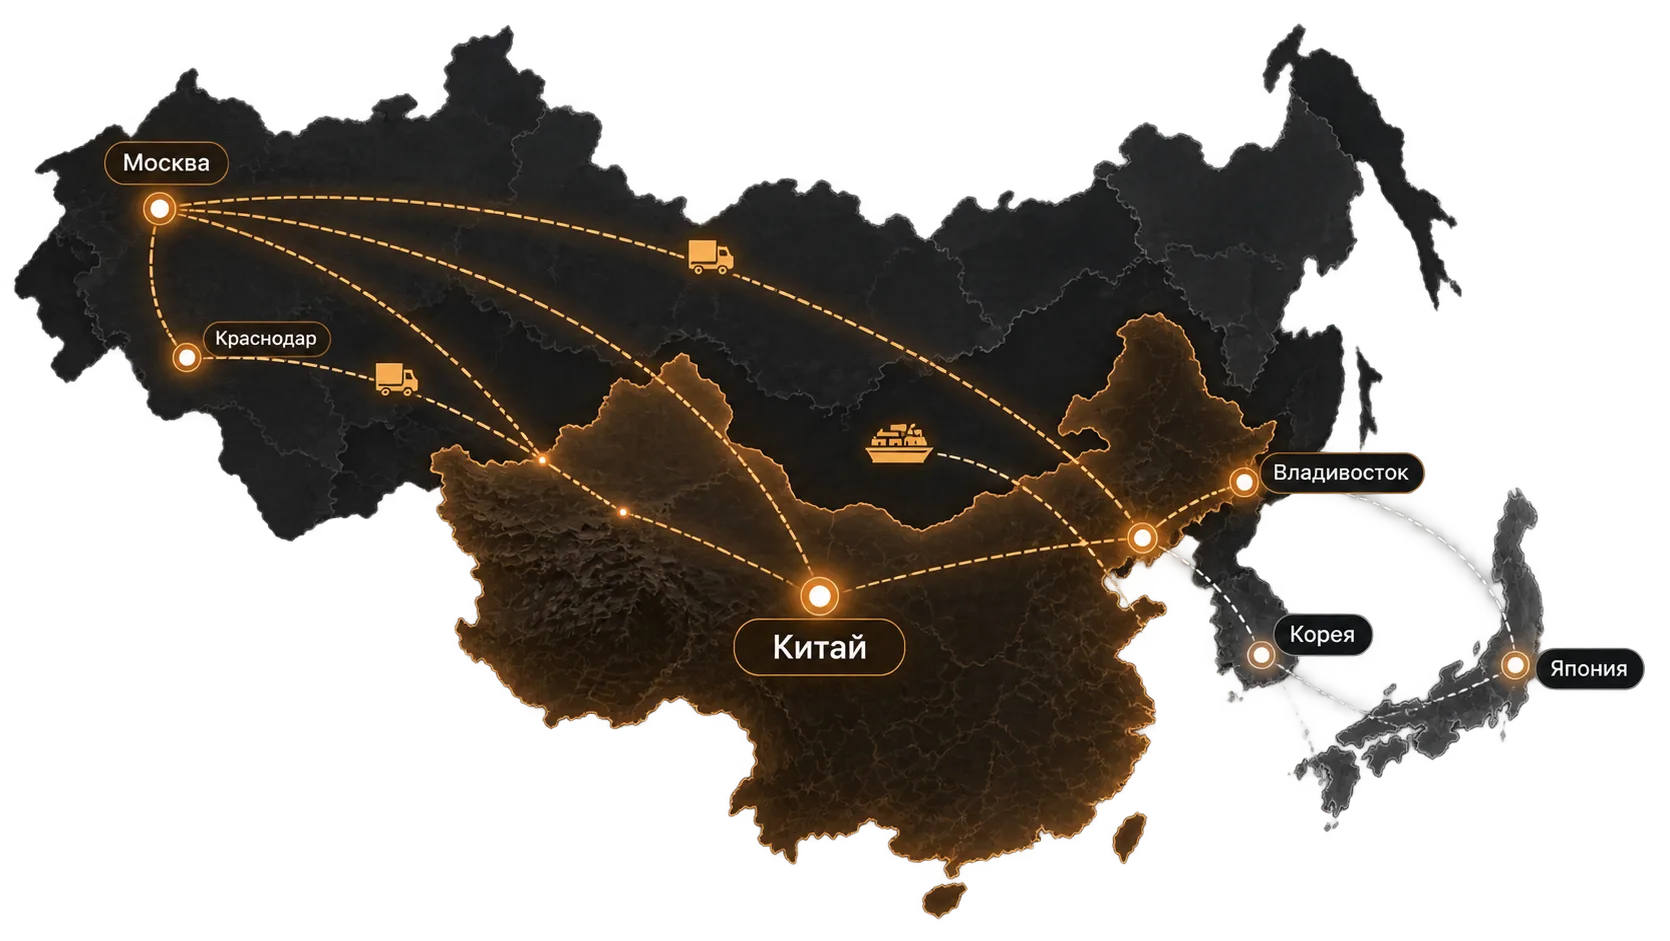
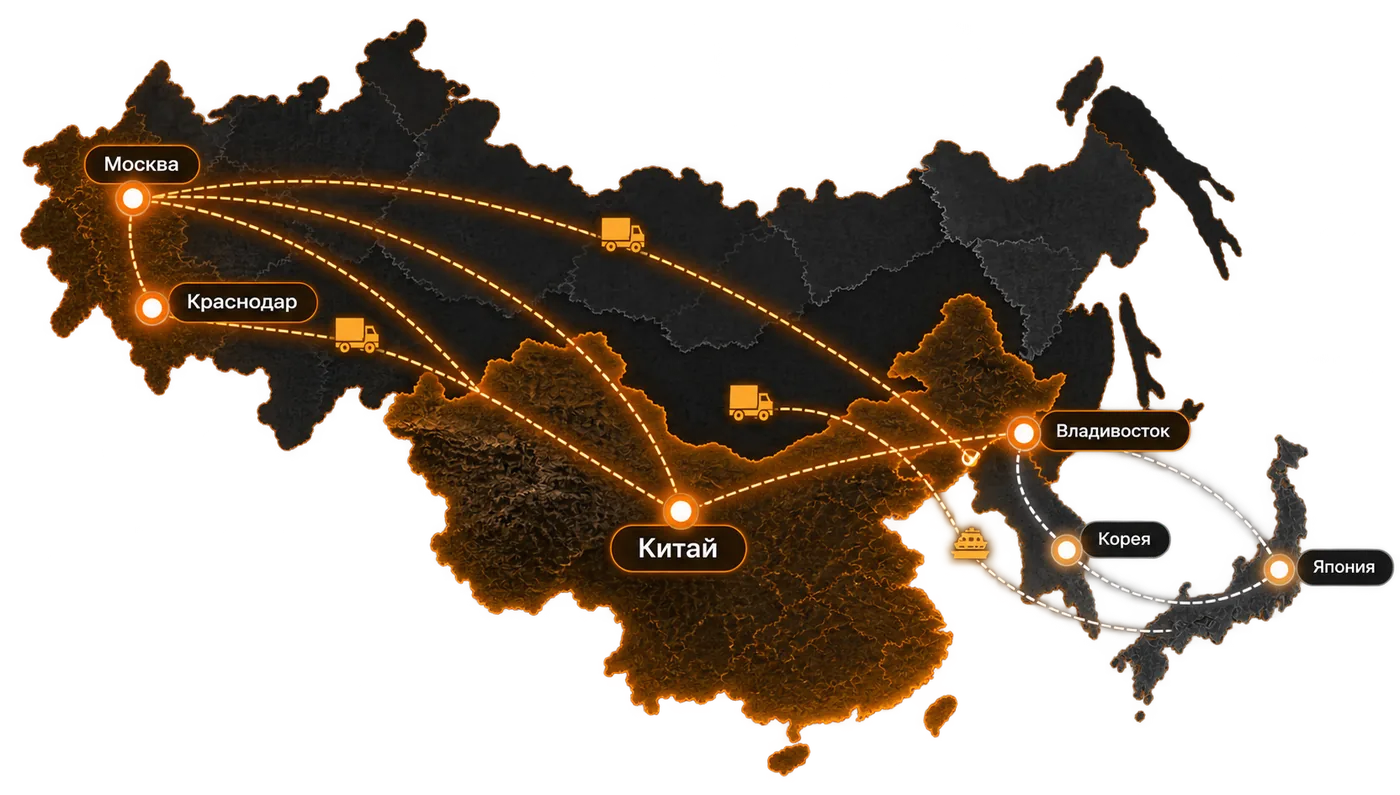
География: отдельная карта для каждой страны из макета
Китай, Корея и Япония — свои карты с подсвеченным регионом (image 216/215/217
из Figma), при переключении плавно сменяются с лёгким приближением к стране.
Своё затемнение и метка убраны — подсветка уже есть на картах.

Claude-Session: https://claude.ai/code/session_017qht9Cxto4coCTJe98gp91

Changed region(s): [[0.0, 0.0302, 1.0, 0.9962], [0.3686, 0.1811, 0.3993, 0.2113]]

diff --git a/src/data/content.ts b/src/data/content.ts
@@ -136,8 +136,8 @@ export type CountryInfo = {
   features: string[];
   stats: { value: string; label: string }[];
   routes: { kind: "truck" | "ship"; title: string; note: string }[];
-  // Акцент на карте, % от рамки: pin — метка страны, focus — куда приближаем, zoom — во сколько раз, r — радиус подсветки
-  mapFocus: { pin: [number, number]; focus: [number, number]; zoom: number; r: number };
+  // Лёгкое приближение карты к стране: focus — точка в % от рамки карты, zoom — во сколько раз
+  mapFocus: { focus: [number, number]; zoom: number };
 };
 
 export const geography: CountryInfo[] = [
@@ -155,7 +155,7 @@ export const geography: CountryInfo[] = [
       { value: "2 маршрута", label: "по суше" },
       { value: "от 1,3 млн", label: "цена под ключ" },
     ],
-    mapFocus: { pin: [48.8, 62.8], focus: [50, 57], zoom: 1.3, r: 24 },
+    mapFocus: { focus: [47, 60], zoom: 1.12 },
     routes: [
       { kind: "truck", title: "Суйфэньхэ → Владивосток", note: "автовозом, 15-30 дней" },
       { kind: "ship", title: "Суйфэньхэ → Владивосток", note: "автовозом, 15-30 дней" },
@@ -166,8 +166,7 @@ export const geography: CountryInfo[] = [
     name: "Корея",
     tabText: "Популярные модели\nи редкие комплектации",
     tabImg: asset("/img/geo/tab-kr.webp"),
-    // TODO: карта для Кореи — заказчик пришлёт
-    map: asset("/img/geo/map-cn.webp"),
+    map: asset("/img/geo/map-kr.webp"),
     description: "Честный пробег, идеальное состояние, максимальные комплектации, прозрачная история",
     features: ["Новые и б/у\nавтомобили", "Гибриды\nи электромобили", "Надежные\nкроссоверы", "Богатые\nкомплектации"],
     stats: [
@@ -176,7 +175,7 @@ export const geography: CountryInfo[] = [
       { value: "от 1,5 млн", label: "цена под ключ" },
     ],
     // TODO: в макете маршруты скопированы с Китая
-    mapFocus: { pin: [72.7, 68.9], focus: [72, 64], zoom: 2.1, r: 9 },
+    mapFocus: { focus: [83, 68], zoom: 1.3 },
     routes: [
       { kind: "truck", title: "Суйфэньхэ → Владивосток", note: "автовозом, 15-30 дней" },
       { kind: "ship", title: "Суйфэньхэ → Владивосток", note: "автовозом, 15-30 дней" },
@@ -187,8 +186,7 @@ export const geography: CountryInfo[] = [
     name: "Япония",
     tabText: "Аукционные автомобили\nс прозрачной историей",
     tabImg: asset("/img/geo/tab-jp.webp"),
-    // TODO: карта для Японии — заказчик пришлёт
-    map: asset("/img/geo/map-cn.webp"),
+    map: asset("/img/geo/map-jp.webp"),
     description: "Легендарная надежность, честный пробег, строгий техосмотр и идеальное состояние",
     features: ["Новые и б/у\nавтомобили", "Гибриды\nи электромобили", "Надежные\nкроссоверы", "Богатые\nкомплектации"],
     stats: [
@@ -196,7 +194,7 @@ export const geography: CountryInfo[] = [
       { value: "5 портов", label: "отгрузки еженедельно" },
     ],
     // TODO: в макете маршруты скопированы с Китая
-    mapFocus: { pin: [86.5, 69.7], focus: [82, 68], zoom: 1.8, r: 13 },
+    mapFocus: { focus: [82, 68], zoom: 1.3 },
     routes: [
       { kind: "truck", title: "Суйфэньхэ → Владивосток", note: "автовозом, 15-30 дней" },
       { kind: "ship", title: "Суйфэньхэ → Владивосток", note: "автовозом, 15-30 дней" },

diff --git a/src/components/sections/Geography.module.css b/src/components/sections/Geography.module.css
@@ -18,105 +18,39 @@
 }
 
 /* Числовые переменные регистрируем, чтобы браузер плавно анимировал их сами —
-   тогда приближение, подсветка и метка переезжают между странами синхронно */
+   приближение переезжает от страны к стране, а не прыгает */
 @property --fx { syntax: "<number>"; inherits: true; initial-value: 50; }
 @property --fy { syntax: "<number>"; inherits: true; initial-value: 50; }
-@property --px { syntax: "<number>"; inherits: true; initial-value: 50; }
-@property --py { syntax: "<number>"; inherits: true; initial-value: 50; }
 @property --zoom { syntax: "<number>"; inherits: true; initial-value: 1; }
-@property --r { syntax: "<number>"; inherits: true; initial-value: 20; }
 
-/* Сцена приближается к выбранной стране: масштаб вокруг точки фокуса
+/* Сцена слегка приближается к выбранной стране: масштаб вокруг точки фокуса
    и сдвиг этой точки ближе к центру рамки */
 .stage {
   position: absolute;
   inset: 0;
   transform-origin: calc(var(--fx) * 1%) calc(var(--fy) * 1%);
-  transform: translate(calc((50 - var(--fx)) * 0.55%), calc((50 - var(--fy)) * 0.55%)) scale(var(--zoom));
+  transform: translate(calc((50 - var(--fx)) * 0.4%), calc((50 - var(--fy)) * 0.4%)) scale(var(--zoom));
   transition:
     --fx 1s var(--ease),
     --fy 1s var(--ease),
-    --px 1s var(--ease),
-    --py 1s var(--ease),
-    --zoom 1s var(--ease),
-    --r 1s var(--ease);
+    --zoom 1s var(--ease);
   will-change: transform;
 }
 
-/* положение картинки внутри рамки — как в макете */
+/* у каждой страны своя карта с подсвеченным регионом; положение — как в макете */
 .mapImg {
   position: absolute;
-  left: 4.8%;
-  top: 2.6%;
-  width: 90.25%;
-  height: 94.85%;
+  left: 3%;
+  top: 2%;
+  width: 94%;
+  height: 96%;
+  object-fit: contain;
   opacity: 0;
-  transition: opacity 0.6s var(--ease);
+  transition: opacity 0.7s var(--ease);
 }
 
 .mapImg[data-active] {
   opacity: 1;
-}
-
-/* всё вокруг выбранной страны притемняется */
-.spot {
-  position: absolute;
-  inset: -60%;
-  pointer-events: none;
-  /* слой в 2,2 раза больше сцены, поэтому координаты и радиус пересчитаны (÷2,2);
-     вертикальный радиус ×1,85 — пропорции рамки карты 646×349 */
-  background: radial-gradient(
-    ellipse calc(var(--r) * 0.455%) calc(var(--r) * 0.842%) at calc(50% + (var(--fx) - 50) * 0.455%)
-      calc(50% + (var(--fy) - 50) * 0.455%),
-    transparent 35%,
-    rgba(28, 28, 28, 0.75) 100%
-  );
-}
-
-/* пульсирующая метка; размер компенсирует масштаб сцены */
-.pin {
-  position: absolute;
-  left: calc(var(--px) * 1%);
-  top: calc(var(--py) * 1%);
-  width: 14px;
-  height: 14px;
-  border-radius: 50%;
-  background: var(--c-gold);
-  box-shadow: 0 0 14px 4px rgba(251, 219, 179, 0.7);
-  transform: translate(-50%, -50%) scale(calc(1 / var(--zoom)));
-  animation: pinIn 0.6s 0.5s var(--ease) both;
-}
-
-.pin::before,
-.pin::after {
-  content: "";
-  position: absolute;
-  inset: -6px;
-  border-radius: 50%;
-  border: 2px solid var(--c-gold);
-  animation: pulse 2.2s ease-out infinite;
-}
-
-.pin::after {
-  animation-delay: 1.1s;
-}
-
-@keyframes pinIn {
-  from {
-    opacity: 0;
-    transform: translate(-50%, -50%) scale(0);
-  }
-}
-
-@keyframes pulse {
-  from {
-    opacity: 0.9;
-    transform: scale(0.6);
-  }
-  to {
-    opacity: 0;
-    transform: scale(2.6);
-  }
 }
 
 .tabs {

diff --git a/src/components/sections/Geography.tsx b/src/components/sections/Geography.tsx
@@ -31,26 +31,21 @@ export function Geography() {
                 {
                   "--fx": c.mapFocus.focus[0],
                   "--fy": c.mapFocus.focus[1],
-                  "--px": c.mapFocus.pin[0],
-                  "--py": c.mapFocus.pin[1],
                   "--zoom": c.mapFocus.zoom,
-                  "--r": c.mapFocus.r,
                 } as CSSProperties
               }
             >
-              {/* у каждой страны может быть своя карта — пока у всех общая, тогда картинка одна */}
+              {/* у каждой страны своя карта с подсвеченным регионом — плавно сменяем их */}
               {[...new Set(geography.map((g) => g.map))].map((src) => (
                 <img
                   key={src}
                   src={src}
-                  alt={`Карта поставок: ${c.name}`}
+                  alt={src === c.map ? `Карта поставок: ${c.name}` : ""}
                   className={styles.mapImg}
                   data-active={src === c.map || undefined}
                   loading="lazy"
                 />
               ))}
-              <span className={styles.spot} aria-hidden />
-              <span className={styles.pin} key={c.id} aria-hidden />
             </div>
           </div>
 
